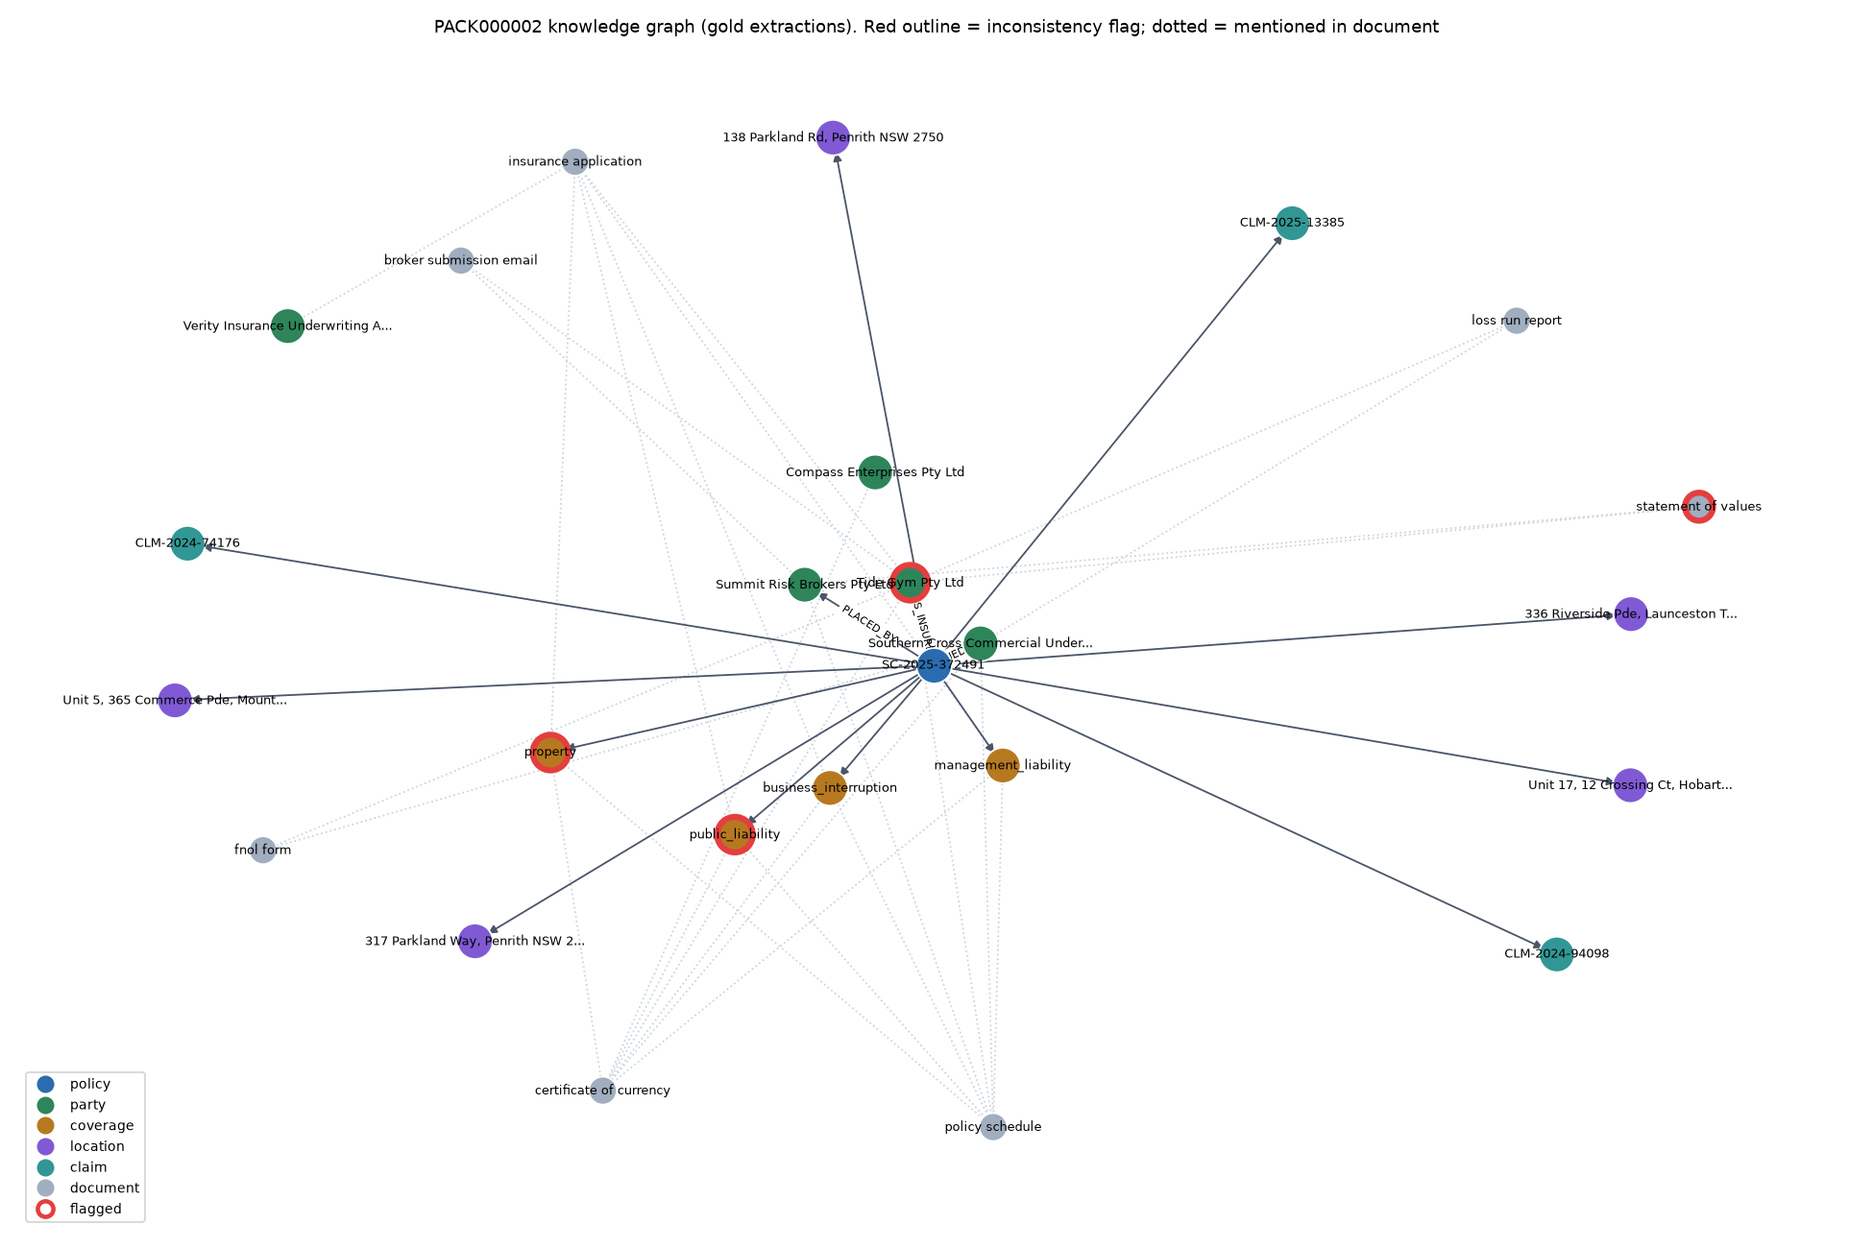
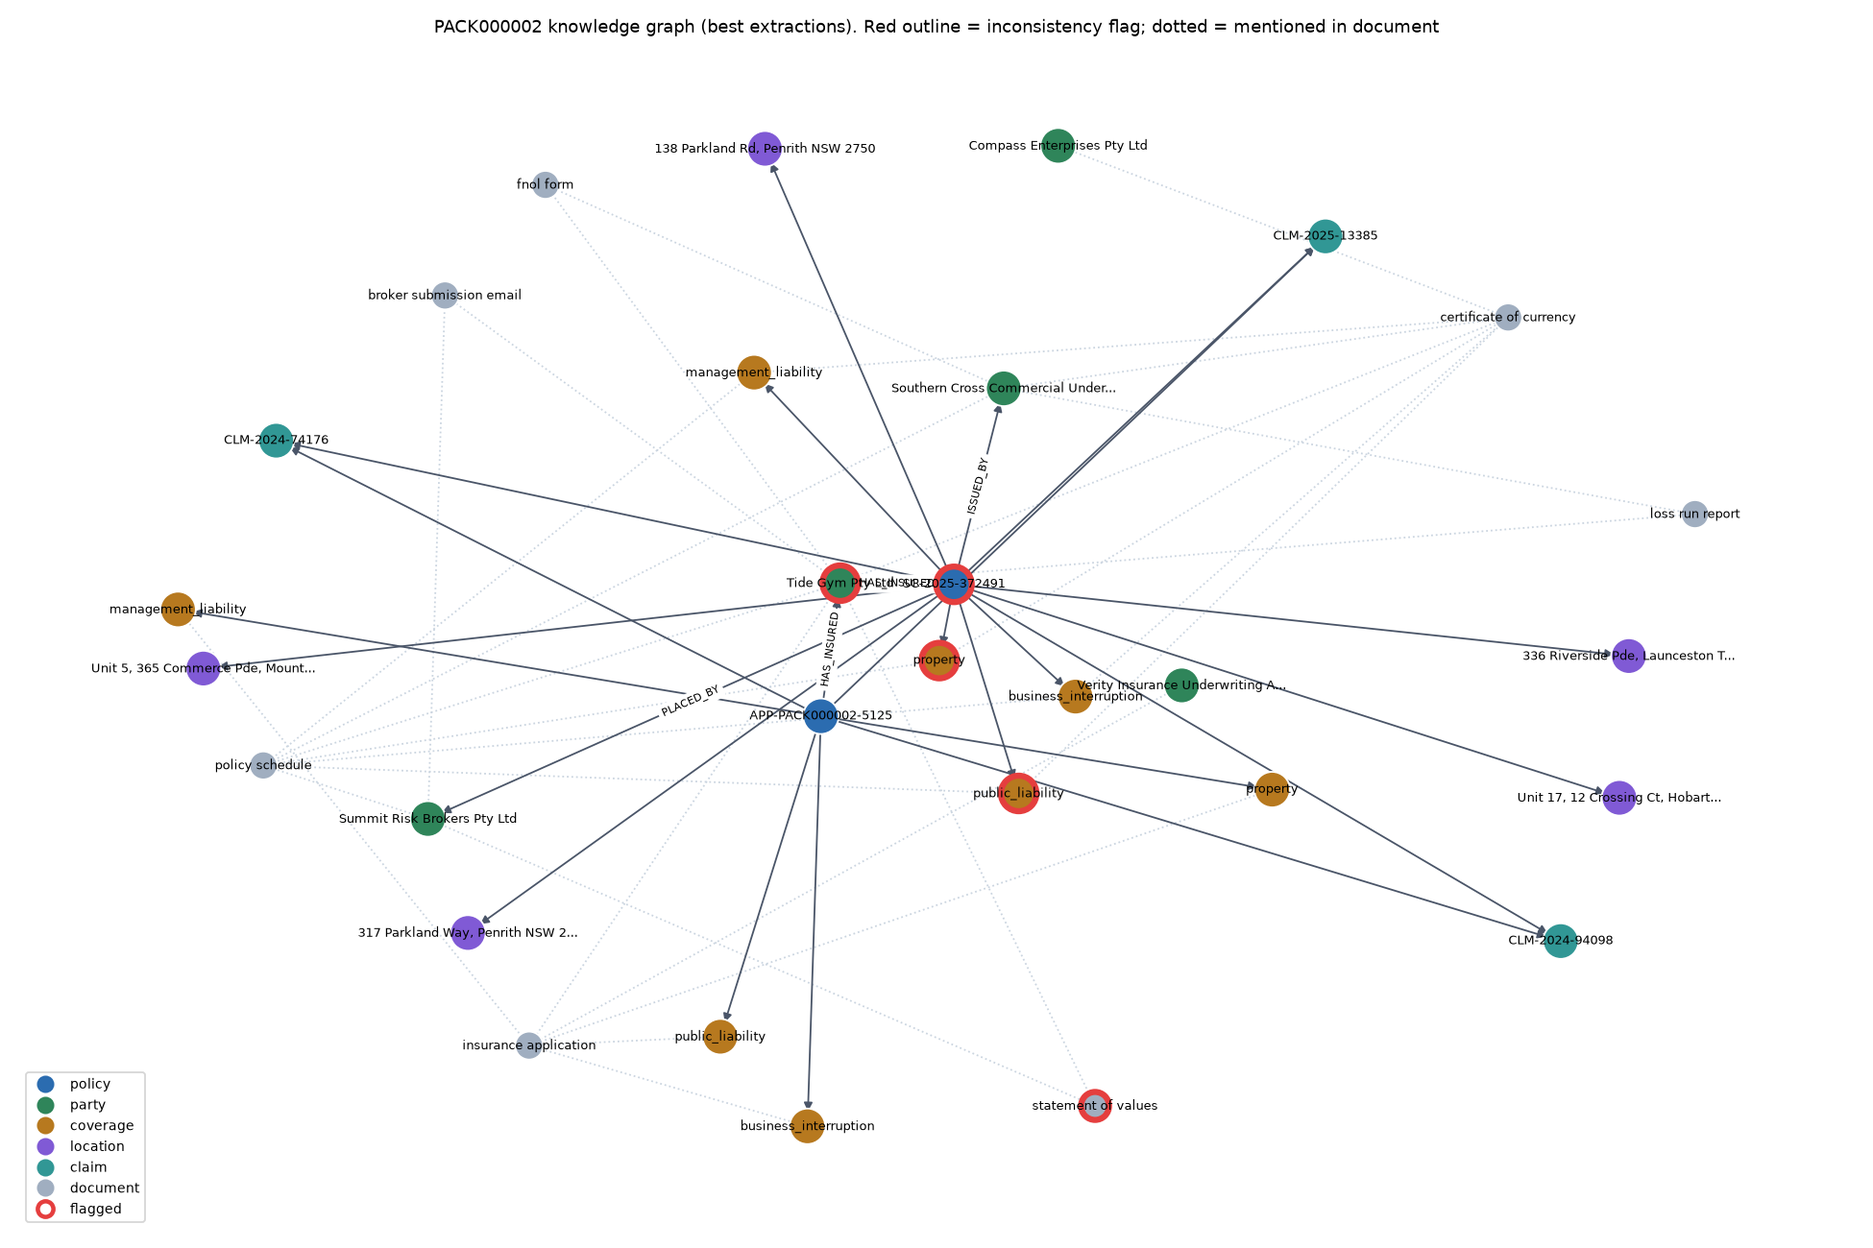
Write README with results, error analysis, demo figures and resume bullets
Dev and test tables kept separate with CIs, detector worked examples,
entity resolution and RAG results, data licence and label provenance,
limitations and reproduction steps.

diff --git a/README.md b/README.md
@@ -1,6 +1,208 @@
-# InsurGraph
+# InsurGraph: Insurance Document Intelligence
 
-Insurance document intelligence: LLM extraction, knowledge graph, RAG and evaluation over
-synthetic commercial P&C insurance documents.
+LLM extraction, knowledge graph, inconsistency detection and RAG over **synthetic** commercial
+P&C insurance submission documents, with an evaluation harness for every step.
 
-Work in progress.
+* Extract policyholders, insurers, brokers, policies, coverages (limits, deductibles), locations,
+  claims and key dates into a validated Pydantic schema, with page provenance on every item.
+* Compare 2 prompt strategies × 2 models from different vendors on a pack-level dev/test split.
+* Resolve entity names across documents, load everything into a NetworkX knowledge graph and flag
+  cross-document inconsistencies (limits, currencies, totals, ABN formats, loss dates, policy numbers).
+* Answer questions with Chroma retrieval and measure hit rate, exact/numeric accuracy and LLM-judged
+  free-text accuracy.
+
+![Pack B knowledge graph](docs/graph_PACK000002.png)
+*Pack B graph built from the model's extractions. Red outlines are detector flags: the SOV total
+mismatch and ABN formatting (labelled), two coverage-limit conflicts between the schedule and the
+certificate of currency (real but unlabelled in the dataset), and one false policy-period flag
+caused by a line-wrapped date. The second "policy" node `APP-PACK000002-5125` is an extraction
+error (the application's export reference taken as a policy number, error type 1 below).*
+
+## Results
+
+All numbers are strict-match unless stated, with document-bootstrap 95% CIs and item counts in the
+per-run tables (`runs/extraction/<split>/<config>/metrics.md`). **Dev** = Pack A + synthetic dev,
+used for prompt writing, threshold tuning and model selection. **Test** = Pack B + synthetic test,
+run once after the configuration was chosen (`runs/extraction/best_config.json`). Seven real
+documents per split is a small sample: differences between configurations are within the CIs.
+
+### Extraction (entity and relationship macro-F1)
+
+| Split | Subset | Model | Prompt | Entity F1 [95% CI] | Relationship F1 [95% CI] |
+|---|---|---|---|---|---|
+| dev | Pack A (7 docs) | Gemini 3.5 Flash Lite | zero-shot | 0.971 [0.83, 1.00] | 0.888 [0.73, 1.00] |
+| dev | Pack A | Gemini 3.5 Flash Lite | few-shot | 0.961 [0.87, 1.00] | 0.888 [0.73, 1.00] |
+| dev | Pack A | gpt-oss-120b (Groq) | zero-shot | 0.918 [0.83, 0.98] | 0.958 [0.88, 1.00] |
+| dev | Pack A | gpt-oss-120b (Groq) | few-shot | 0.894 [0.79, 0.96] | 0.958 [0.88, 1.00] |
+| dev | synthetic (12 docs) | Gemini 3.5 Flash Lite | zero-shot | 0.967 [0.92, 0.99] | 1.000 |
+| dev | synthetic | Gemini 3.5 Flash Lite | few-shot | 1.000 | 1.000 |
+| dev | synthetic | gpt-oss-120b | zero-shot | 0.957 [0.91, 0.99] | 0.967 [0.92, 1.00] |
+| dev | synthetic | gpt-oss-120b | few-shot | 0.935 [0.88, 0.98] | 0.952 [0.87, 0.98] |
+| **test** | **Pack B (7 docs)** | **Gemini 3.5 Flash Lite** | **few-shot (selected)** | **0.933 [0.87, 0.97]** | **0.906 [0.73, 1.00]** |
+| test | Pack B | Gemini 3.5 Flash Lite | zero-shot | 0.918 [0.81, 0.96] | 0.906 [0.73, 1.00] |
+| test | Pack B | gpt-oss-120b | zero-shot | 0.870 [0.73, 0.96] | 0.881 [0.75, 1.00] |
+| test | Pack B | gpt-oss-120b | few-shot | 0.916 [0.81, 1.00] | 1.000 |
+| **test** | **synthetic (12 docs)** | **Gemini 3.5 Flash Lite** | **few-shot (selected)** | **0.968 [0.90, 1.00]** | **1.000** |
+| test | synthetic | Gemini 3.5 Flash Lite | zero-shot | 0.925 [0.83, 0.99] | 0.971 [0.92, 1.00] |
+| test | synthetic | gpt-oss-120b | zero-shot | 0.978 [0.94, 0.99] | 0.962 [0.91, 0.99] |
+| test | synthetic | gpt-oss-120b | few-shot | 0.891 [0.80, 0.99] | 0.962 [0.91, 0.99] |
+
+Selection rule (fixed before the test run): mean of entity and relationship macro-F1 over the two
+dev subsets. Lenient matching (fuzzy names/addresses) equals strict on the real packs and adds up to
++0.04 for gpt-oss on synthetic documents. All 152 document extractions returned schema-valid JSON;
+11 needed the one validation retry, none were salvaged. Full table with lenient scores and token
+counts: `runs/summary.md`.
+
+### Inconsistency detector
+
+Labelled flags = the dataset's 4 engineered inconsistencies + 10 programmatically seeded ones in the
+synthetic packs. Raw counts, because there are too few cases for a meaningful percentage.
+
+| Input | Split | Labelled found / missed | Extra: true (unlabelled) | Extra: corroborating | Extra: false |
+|---|---|---|---|---|---|
+| Gold extractions (detector logic alone) | dev | 7 / 0 | 0 | 1 | 0 |
+| Gold extractions | test | 7 / 0 | 2 | 0 | 0 |
+| Gemini few-shot extractions (end to end) | dev | 7 / 0 | 0 | 1 | 2 |
+| Gemini few-shot extractions (end to end) | test | 7 / 0 | 2 | 0 | 2 |
+
+Worked examples (Pack A / Pack B, end to end):
+
+| Pack | Flag | How it was found |
+|---|---|---|
+| A | `currency_mismatch` (labelled) | SOV location #1 total printed as `USD $3,413,719`; every other amount in the pack is AUD |
+| A | `loss_date_outside_policy_period` (labelled) | Loss run shows CLM-2020-27293 lost 13/10/2027, after it was reported (02/10/2020) and after the valuation date; the application declares 24/09/2020 for the same claim (corroborating conflict) |
+| B | `sov_total_mismatch` (labelled) | SOV displayed total 15,383,103 ≠ sum of the 5 rows 14,635,928 |
+| B | `abn_formatting_inconsistency` (labelled) | Same ABN printed `21275287720` on the SOV and `21 275 287 720` elsewhere |
+| B | `limit_mismatch` ×2 (true, **not labelled in the dataset**) | Schedule: Public Liability 10M, Property 2M; certificate of currency: 20M and 1M |
+| A, B | `policy_number_mismatch` (false) | Extraction error: application export reference taken as a policy number |
+| A | `claim_attribute_mismatch` (false) | Extraction error: claim report date taken as the claim's reported date |
+| B | `policy_period_mismatch` (false) | Extraction error: line-wrapped SOV end date read as 2026-12-26 |
+
+Every false flag traces back to an extraction error (see the error analysis); on gold extractions
+the detector raises none. Details: `runs/detector/results.md`.
+
+### Entity resolution
+
+| Resolver | Dev pairs (14) accuracy | Test pairs (14) accuracy |
+|---|---|---|
+| normalise + fuzzy (token-set ratio, threshold tuned on dev) | 1.00 | 0.86 (2 false negatives) |
+| normalise + fuzzy + Gemini `is_same_entity` for grey-zone pairs | 1.00 | 1.00 |
+
+The two string-matching failures are `Southern Cross Commercial Underwriters Pty Ltd` vs
+`... Underwriting` and `Zurich North America` vs `Zurich American Insurance Company`. Hard negatives
+such as `Pinewood Insurance Underwriting Agency` vs `Verity Insurance Underwriting Agency` stay apart.
+
+### RAG (28 questions with known answers, 14 per pack)
+
+| Split | Variant | Retrieval hit@5 | Exact/numeric acc. (n=11) | Judged free-text acc. (n=3) | Overall |
+|---|---|---|---|---|---|
+| dev (Pack A) | plain | 0.93 | 0.91 | 0.67 | 0.86 |
+| dev (Pack A) | graph-routed | 0.93 | 0.91 | 0.33 | 0.79 |
+| test (Pack B) | plain | 1.00 | 0.91 | 0.33 | 0.79 |
+| test (Pack B) | graph-routed | 1.00 | 0.91 | 0.67 | 0.86 |
+
+Answers by Gemini 3.5 Flash Lite over the top-5 chunks (local `all-MiniLM-L6-v2` embeddings in
+Chroma). Numeric, date and name answers are scored without a judge; free-text answers are judged
+by Groq `qwen/qwen3.8-27b` (a different model family from both extractors). All 12 judge decisions
+were checked by hand: 12/12 agreement (`data/gold/judge_manual_check.json`). Most failures are
+"not found" although the right document was retrieved: hit@k is document-level and the chunk with
+the answer (e.g. the SOV totals row) was not in the top 5. With 3 free-text questions per split, the
+plain vs graph-routed difference is one question either way.
+
+## Error analysis (summary)
+
+1. **Relationships invented for documents without a policy number:** Gemini links the application's
+   export reference to the insured, coverages and claims (all 8 spurious Pack B relationships).
+2. **PDF line-wrap damage in table cells:** `CLM-2024` / `-74176`, `Motor` / `Collision`, and
+   `01/12/20` / `26` produce missed claims, truncated categories and a wrong date.
+3. **Date semantics across document types:** the claim report's own date is taken as the claim's
+   reported date by every configuration; a synthetic template's `A$` was copied as the currency
+   instead of `AUD` (a normalisation gap found on test and deliberately left unpatched).
+
+Full write-up with counts and examples: [docs/error_analysis.md](docs/error_analysis.md).
+
+## Data, licence and label provenance
+
+* **Documents:** RCA Insurance Library 2-pack preview
+  ([RootCauseAnalytics/Insurance-Library-Sample](https://huggingface.co/datasets/RootCauseAnalytics/Insurance-Library-Sample)),
+  **CC-BY-NC-4.0, fully synthetic, non-commercial use only**. 14 PDFs in 2 submission packs with
+  4 engineered cross-document inconsistencies. The raw files are included in `data/raw/` with
+  their original README; `scripts/download_data.py` re-downloads them.
+* **Synthetic packs (Gate 1 fallback):** 6 packs / 24 PDFs generated by `src/synth.py` from fact
+  records with code templates (no LLM), so labels are correct by construction. Dev and test use
+  disjoint template styles and seeds. Reason: Pack B alone gives fewer than 10 gold items for several
+  entity types and shares templates with Pack A ([docs/phase0_data_note.md](docs/phase0_data_note.md)).
+* **Gold set (`data/gold/gold.jsonl`, 179 items on the real documents):**
+  116 items converted from the dataset ground truth, using only the fields each template actually
+  prints and applying the engineered overrides (`src/gold.py`); **63 hand-labelled items**
+  (`data/gold/hand_labels.json`): all 54 relationships (the dataset has none), the applications'
+  declared-claims tables (7 claims) and the SOV "declared as at" dates. Hand-labelled name pairs for
+  entity resolution (`entity_pairs.json`), the RAG question set (`rag_questions.json`) and the list of
+  real but unlabelled inconsistencies (`unlabelled_inconsistencies.json`) are also in `data/gold/`.
+
+## How it works
+
+See [docs/architecture.md](docs/architecture.md) for the diagram.
+
+```
+src/      schema.py  normalize.py  ingest.py  extract.py  llm.py  resolve.py  graph.py  rag.py  synth.py  gold.py
+          eval/ matching.py  metrics.py  report.py  detector.py  rag_eval.py
+prompts/  extract_zero_shot_v1.md  extract_few_shot_v1.md
+data/     raw/  gold/  synthetic/
+runs/     phase0/  thin_slice/  extraction/  resolution/  detector/  rag/  error_analysis/  summary.md
+scripts/  download_data.py  phase0_inspect.py  thin_slice.py  tune_resolution.py  run_all.py  error_analysis.py  plot_graph.py
+tests/
+```
+
+* **Ingestion:** plain PyMuPDF text with page markers. It kept the SOV and loss-run tables intact
+  better than `pymupdf4llm`, whose table detection split cells across columns (Phase 0 note).
+* **Extraction:** one request per document (all are under 1K tokens). Output is a compact row-array
+  JSON format, about 3× fewer output tokens than verbose objects, which matters under Groq's 8K TPM.
+  It is converted to the schema, validated with Pydantic, and retried once with the validation
+  error. Temperature 0.
+* **LLM client (`src/llm.py`):** Gemini, Groq and any OpenAI-compatible local server (LM Studio)
+  behind one call. It has a persistent `diskcache` keyed on provider, model, prompt, parameters and
+  schema version, and a proactive sliding-window token/request limiter. `tenacity` backoff honours
+  `retry-after`. Optional `*_API_KEY_FALLBACK` keys take over automatically on HTTP 429.
+  `instructor` was not needed: native JSON mode plus Pydantic validation was enough.
+* **Evaluation:** items are normalised (ISO dates, numeric money, company suffixes stripped,
+  canonical coverage names), then matched 1:1 on a key. A true positive needs every field to agree.
+  Strict and lenient (fuzzy names and addresses) modes. Per-type P/R/F1 with counts and field
+  accuracy, macro and micro averages, and bootstrap CIs. Types with fewer than 10 gold items are
+  flagged.
+
+## Reproduce
+
+```bash
+python -m venv venv && source venv/bin/activate
+pip install -r requirements.txt
+cp .env.example .env    # add GEMINI_API_KEY and GROQ_API_KEY (free tier)
+python scripts/run_all.py            # full pipeline: about 150 extraction calls, ~10 min Gemini, ~40 min Groq
+python scripts/run_all.py --offline  # rebuild every table from the committed runs/ outputs, no API calls
+pytest
+```
+
+The final run outputs (predictions, logs, metrics, flags, RAG answers) are committed in `runs/`, and
+`runs/summary.md` is the generated results summary. The LLM cache (`cache/`) and `.env` are
+git-ignored. Calls use temperature 0, but hosted models are not guaranteed to be deterministic, so a
+fresh full run can differ slightly; `--offline` reproduces the tables exactly.
+
+**Free-tier budget used for the reported run** (successful calls, from the cache): ~245K tokens on
+Gemini over 141 calls (extraction, RAG, entity resolution) and ~164K tokens on Groq over 92 calls
+(gpt-oss-120b extraction plus the Qwen judge), under Groq's 200K/day cap. Few-shot costs about 50%
+more tokens than zero-shot.
+
+## Limitations
+
+* **Small sample.** There are 7 real documents per split and 14 labelled inconsistencies in total.
+  CIs are wide and no configuration difference is significant. The synthetic packs add volume but
+  come from simple code templates, which are easier than real documents.
+* **Hand labels are single-annotator.** The relationships and the extra claims were labelled by one
+  person and were not double-checked.
+* **Same model for answering and extraction.** The judge is a different model family from both
+  extractors, but the RAG answer model is the same as the selected extractor.
+* **Detector scope.** The detector covers the attribute conflicts and rules listed above. Conflicts
+  outside the schema are not detected, such as "years trading" (25 vs 17 in Pack A, 15 vs 29 in
+  Pack B).
+* **Model coverage.** Only the clean PDFs were used; the scanned variants (an OCR test) and the
+  stretch items (gpt-oss-20b ablation, local-model run, Streamlit demo) were not run.

diff --git a/docs/error_analysis.md b/docs/error_analysis.md
@@ -1,0 +1,56 @@
+# Error analysis
+
+Source: strict-mode errors in `runs/extraction/*/*/errors.jsonl`, categorised by
+`scripts/error_analysis.py` (per-run tables in `runs/error_analysis/`). Counts below are for the
+test split unless stated; dev showed the same patterns.
+
+## Top 3 failure types
+
+### 1. Relationships invented for documents without a policy number (Gemini, both prompts)
+
+The insurance application prints no policy number, only a document reference
+(`APP-PACK000002-5125`) and the pack id. Gemini still fills `relationship_subject` with one of those
+and links the insured, every requested coverage and every declared claim to it: **8 of the 8
+spurious relationships** on Pack B (10 of 10 on Pack A) come from the application. Few-shot also
+emits the reference as a `policy`. Downstream this creates a second "policy" node, which the
+detector reports as a false `policy_number_mismatch` in both packs.
+
+*Fix to try next (not applied: would be tuning after seeing test):* state in the prompt that
+document/export references are not policy numbers, or validate subjects against the extracted
+`policies` list in code.
+
+### 2. PDF line-wrap damage inside table cells
+
+The source PDFs wrap text inside narrow cells mid-token. Models usually repair it, but not always:
+
+* `CLM-2024` / `-74176` → gpt-oss-120b zero-shot kept only `CLM-2024` for all three Pack B
+  claims (3 claims missed + 3 spurious), which also broke the `HAS_CLAIM` relationships.
+* `Motor` / `Collision`, `Water` / `Damage`, `Liability N` / `otification` → gpt-oss-120b few-shot
+  kept the first word only (3 Pack B claims with wrong category).
+* `PERIOD 02/12/2025 - 01/12/20` / `26` → Gemini read the SOV policy end as 2026-12-26, which
+  produced a false `policy_period_mismatch` flag.
+
+Lenient matching does not rescue these (they are identifiers, labels and dates, not names).
+
+### 3. Date and amount semantics confused across document types
+
+* The claim report's own **Report Date** (2022-04-08) is taken as the claim's `reported_date`
+  (gold: reported 2022-03-12 on the loss run; the report does not print it). Seen with every
+  configuration on Pack A; it causes a false `claim_attribute_mismatch` flag.
+* FNOL "Date Reported" emitted as a `report_date` key date as well as on the claim.
+* Synthetic test template T1 writes amounts as `A$5,621,000`; Gemini copied `A$` as the row
+  currency instead of `AUD` on all 4 rows of one SOV. This is a normalisation gap found only on
+  test: `A$` should map to `AUD`. It was **not** patched in the scorer after the fact, so the test
+  numbers include it.
+
+## Other observations
+
+* gpt-oss-120b misses insurers named only in a loss-run heading ("Blackwood Assurance - Claims
+  Department") on the synthetic test template (3 docs), and leaves category/status empty on the
+  prose-style loss run (T1).
+* Strict and lenient scores are identical on the real packs: name variants were already repaired by
+  the models; lenient matching mainly helps gpt-oss on synthetic address wrapping.
+* Few-shot costs ~50% more tokens than zero-shot. It helped Gemini on test (Pack B entity
+  macro-F1 0.918 → 0.933) but hurt gpt-oss on synthetic test (0.978 → 0.891). All differences are
+  inside the bootstrap intervals; with 7 real documents per split no prompt or model difference
+  here is statistically meaningful.

diff --git a/docs/resume_bullets.md b/docs/resume_bullets.md
@@ -1,0 +1,27 @@
+# Resume bullets (measured)
+
+Title: **Insurance Document Intelligence: LLM Extraction, Knowledge Graph and RAG**
+
+Duck Creek / insurance roles: lead with bullets 1 and 3. General AI/ML roles: lead with 2 and 4.
+
+- Built an LLM pipeline that extracts policyholders, insurers, coverages, limits, claims and dates from
+  14 synthetic commercial P&C submission documents into a validated Pydantic schema with page-level
+  provenance, reaching 0.93 entity macro-F1 (0.91 relationship macro-F1) on a held-out pack and 0.97
+  on held-out synthetic packs.
+- Built an evaluation harness (strict and lenient precision, recall and F1 per entity and relationship
+  type, bootstrap CIs) with a pack-level dev/test split, and compared 2 prompt strategies across 2 models
+  from different providers (Gemini Flash Lite, gpt-oss-120b); all 152 extractions schema-valid
+  (11 after one validation retry).
+- Modelled results as a NetworkX knowledge graph with page-level provenance and layered entity resolution
+  (14/14 held-out name pairs with an LLM fallback vs 12/14 string-only); built a cross-document
+  inconsistency detector that found 14 of 14 labelled conflicts (limits, currencies, SOV totals, ABN
+  formats, loss dates, policy numbers) end to end, plus 2 real conflicts the dataset did not label.
+- Implemented Chroma RAG evaluated on 28 questions (hit@5 0.93–1.00, overall accuracy 0.79–0.86),
+  with exact/numeric scoring and an LLM judge from a separate model family validated on 12 manual checks
+  (12/12 agreement).
+- Hand-labelled 63 gold items (54 relationships, declared-claims tables, valuation dates) plus 28 entity
+  name pairs; generated 24 synthetic documents from fact records as a leakage-controlled extra test set;
+  shipped with tests, cached and throttled LLM calls, and a one-command reproducible run.
+
+Caveat to keep in mind when quoting these: 7 real documents per split, so CIs are wide
+(test entity macro-F1 95% CI 0.87–0.97).
